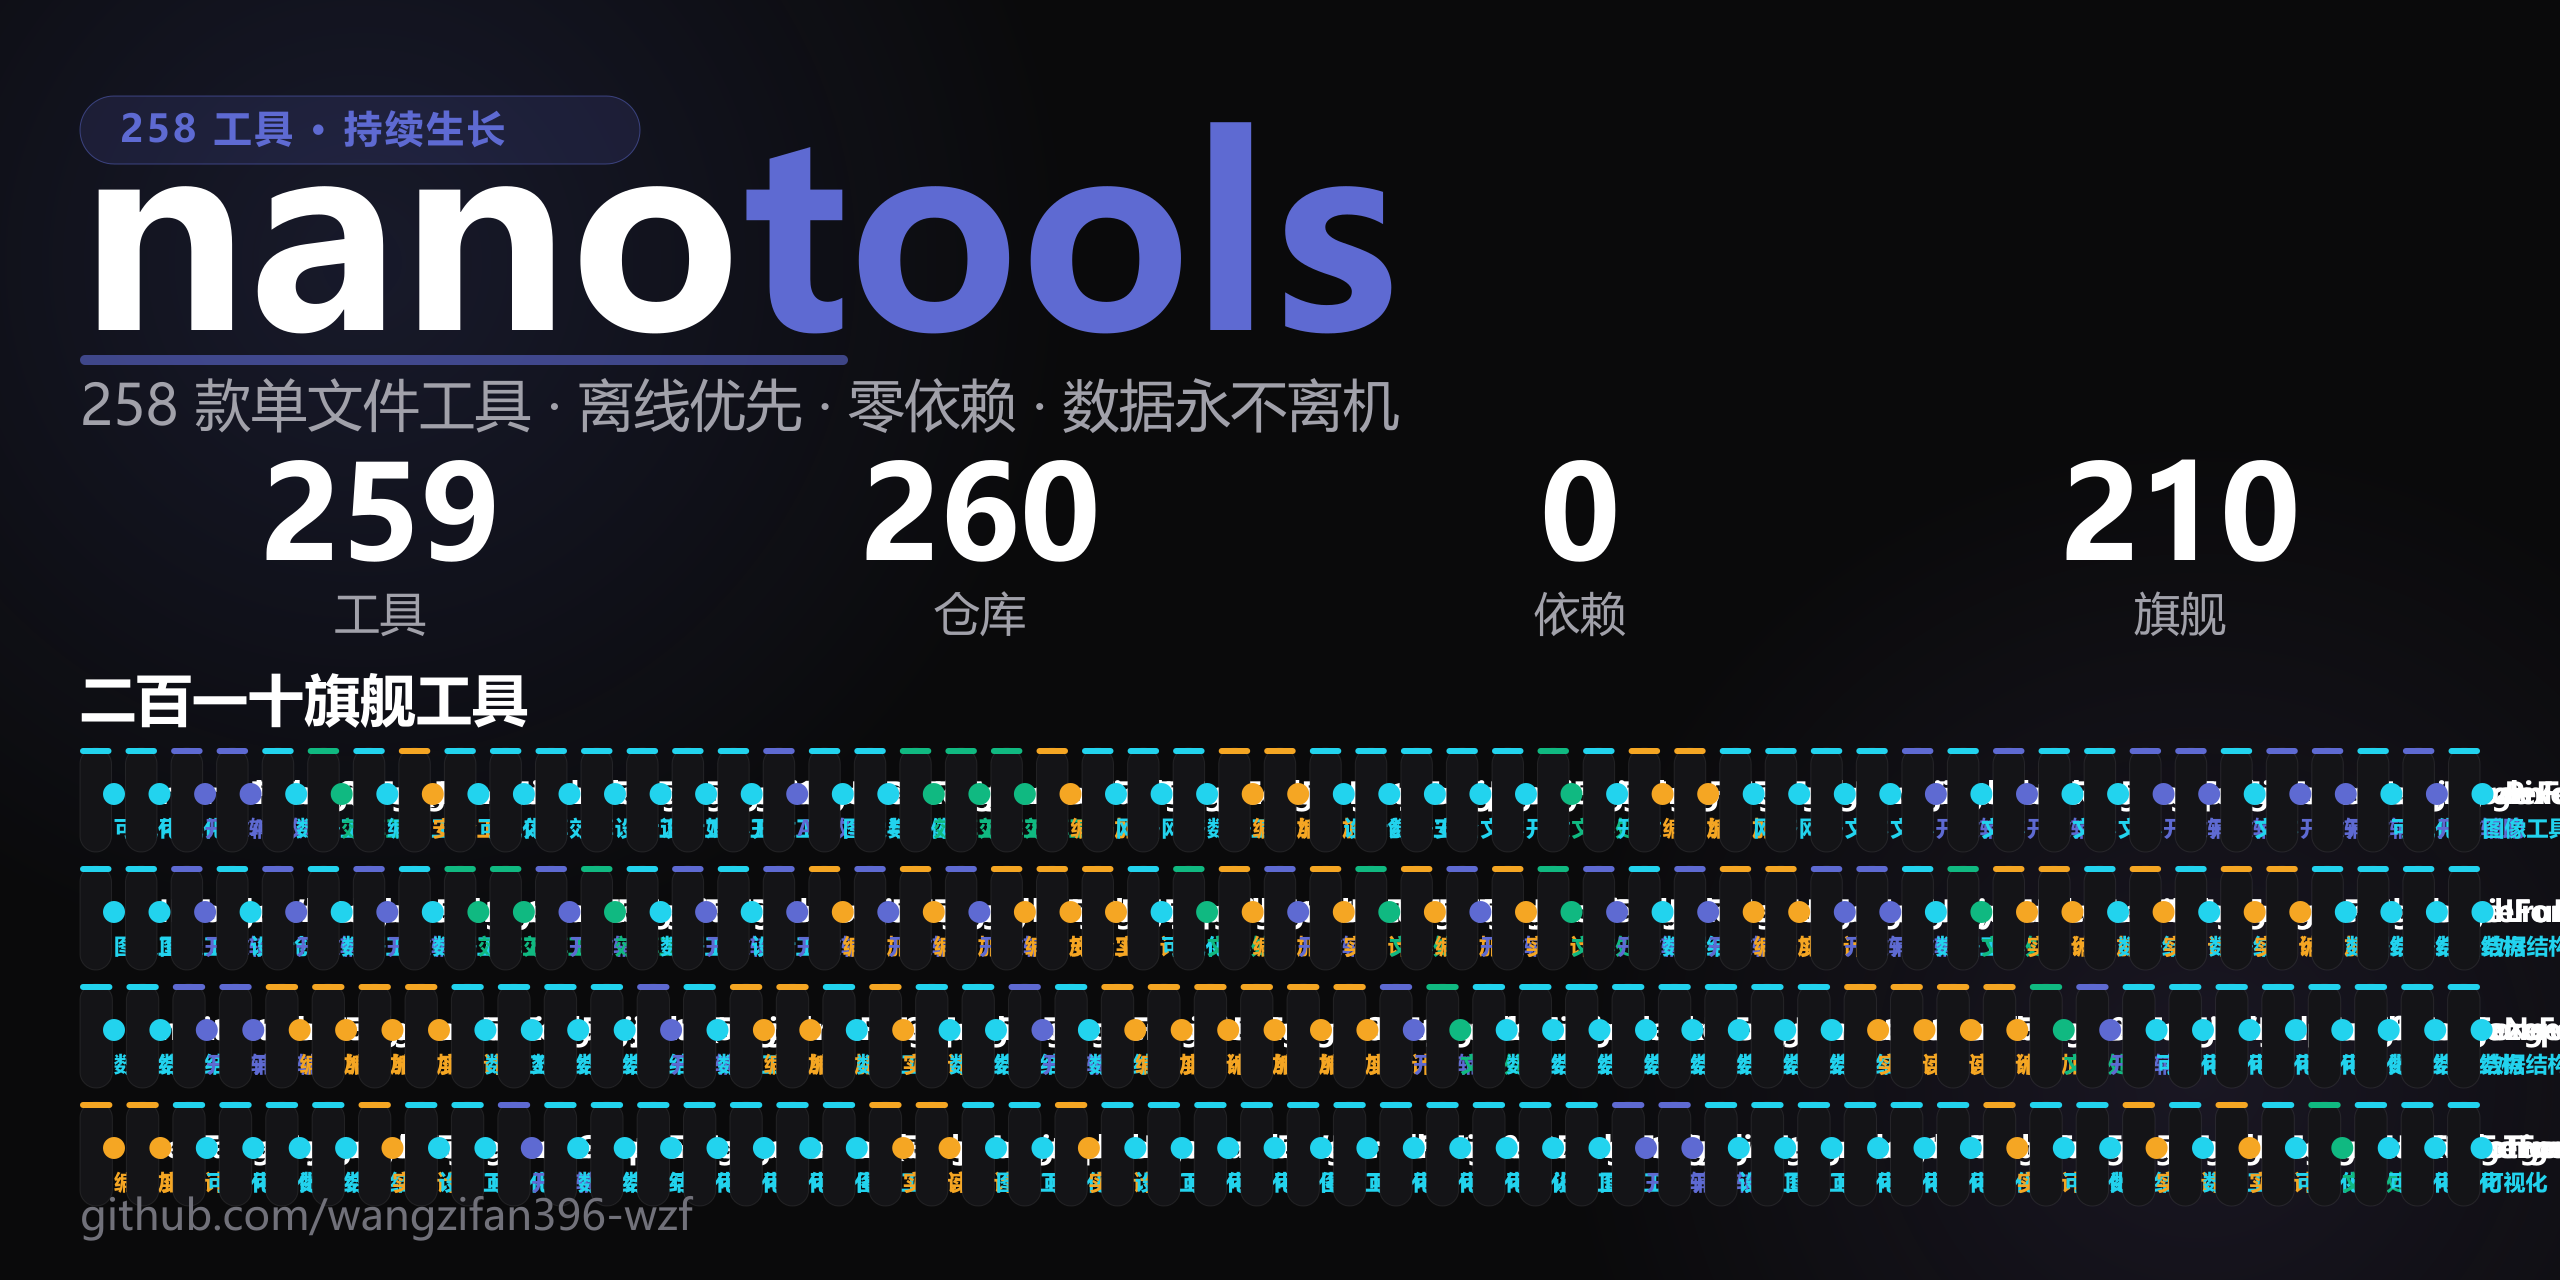
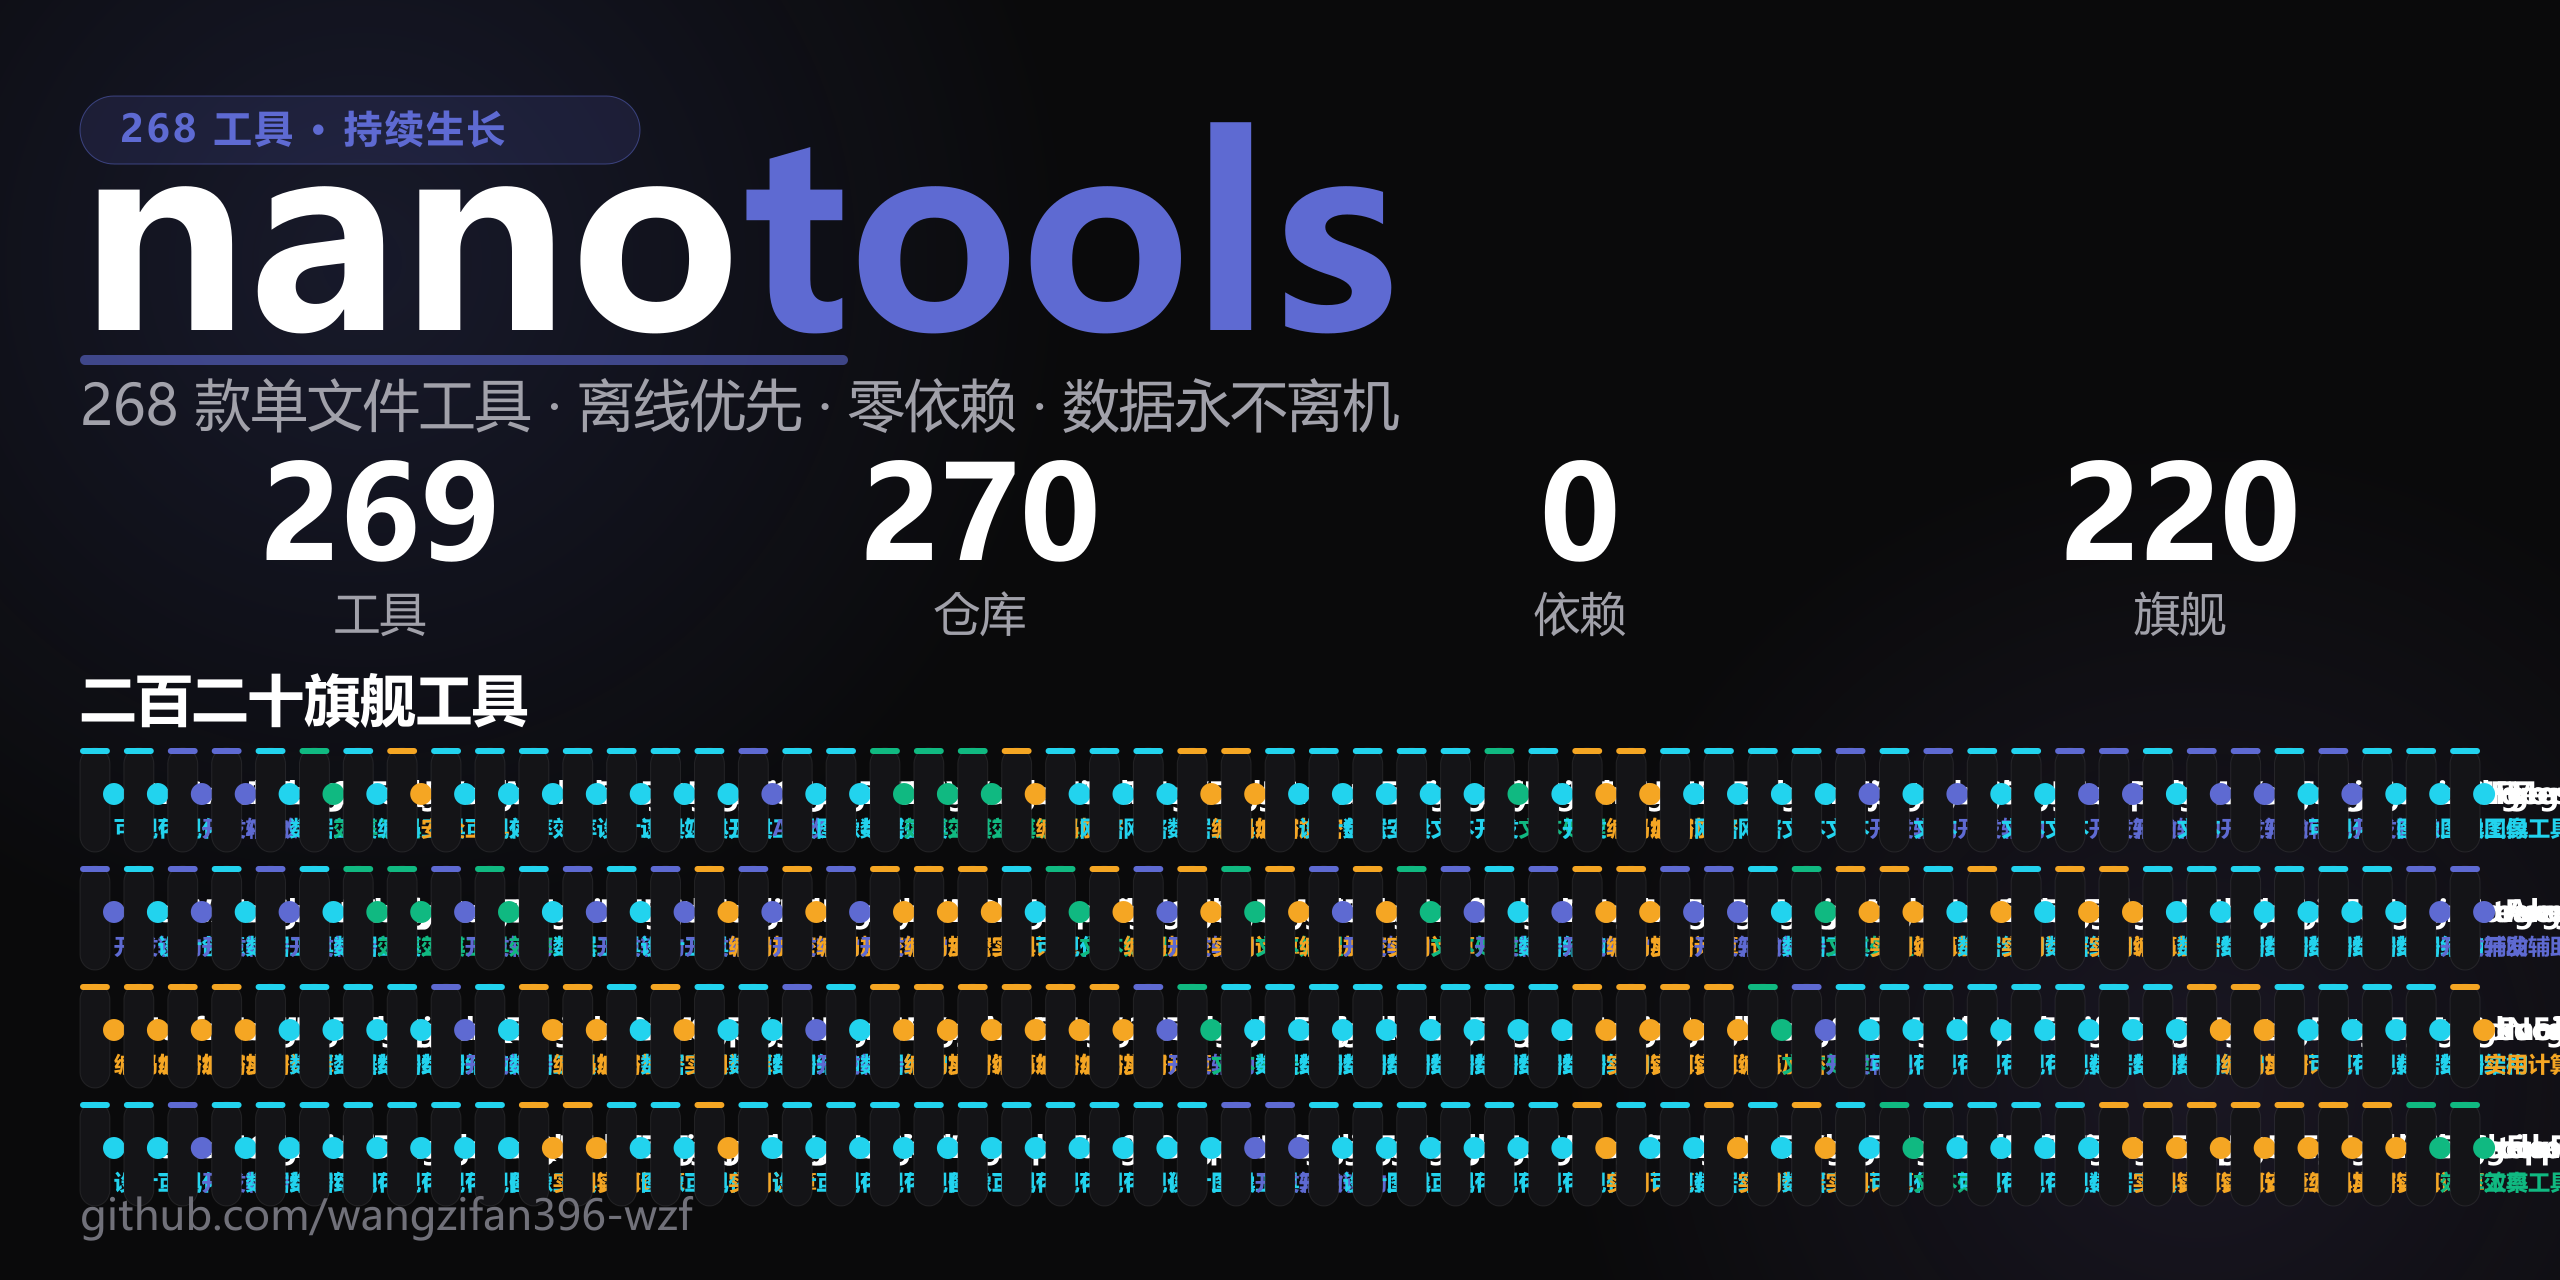
chore: batch39 wiring + promo (268 tools / 220 flagships)

diff --git a/README.md b/README.md
@@ -2,9 +2,9 @@
 
 <img src="./profile_header.png" alt="nano-tools 100 tools milestone" width="100%">
 
-### 258 款单文件工具 · 零依赖 · 本地优先
+### 268 款单文件工具 · 零依赖 · 本地优先
 
[2 lines of base64/hex data omitted]
 
 **每工具独立仓库 · 单文件 HTML · 双击即开 · 断网可用 · 你拥有全部源码**
 
@@ -16,13 +16,13 @@
 
 <img src="./all_tools_100.png" alt="全部 100 款工具墙" width="100%">
 
-<i>全部 258 款单文件工具 — 紫色 = 旗舰工具</i>
+<i>全部 268 款单文件工具 — 紫色 = 旗舰工具</i>
 
 </div>
 
 ---
 
-## 旗舰工具（210 款）
+## 旗舰工具（220 款）
 
 <table>
 <tr><th>工具</th><th>说明</th><th>试用</th></tr>
@@ -141,6 +141,16 @@
 <tr><td><b>WfcForge</b></td><td>波函数坍缩（WFC）地形生成器：海/滩/草/林/山邻接约束，最小熵坍缩 + 约束传播，种子可复现，SVG 网格渲染，离线可用。</td><td><a href="https://wangzifan396-wzf.github.io/WfcForge/">demo</a> / <a href="https://github.com/wangzifan396-wzf/WfcForge">src</a></td></tr>
 <tr><td><b>PlotForge</b></td><td>函数绘图器：输入 sin(x)*x 等表达式即渲染 SVG 曲线，递归下降解析器支持 + - * / ^ 与常用函数，多曲线叠加，离线可用。</td><td><a href="https://wangzifan396-wzf.github.io/PlotForge/">demo</a> / <a href="https://github.com/wangzifan396-wzf/PlotForge">src</a></td></tr>
 <tr><td><b>TimelineForge</b></td><td>时间线生成器：「日期 | 标题 | 描述」一行一事件，自动排序后渲染左右交替时间线 SVG，支持年月日三种粒度，离线可用。</td><td><a href="https://wangzifan396-wzf.github.io/TimelineForge/">demo</a> / <a href="https://github.com/wangzifan396-wzf/TimelineForge">src</a></td></tr>
+<tr><td><b>StatForge</b></td><td>统计与线性回归：均值/中位数/众数、方差/标准差、四分位与 IQR、线性拟合（斜率/截距/R²），一键出直方图，离线可用。</td><td><a href="https://wangzifan396-wzf.github.io/StatForge/">demo</a> / <a href="https://github.com/wangzifan396-wzf/StatForge">src</a></td></tr>
+<tr><td><b>LoanForge</b></td><td>贷款本息摊销：输入本金、年利率与期限，输出月供、总利息与逐期还款计划表，离线可用。</td><td><a href="https://wangzifan396-wzf.github.io/LoanForge/">demo</a> / <a href="https://github.com/wangzifan396-wzf/LoanForge">src</a></td></tr>
+<tr><td><b>SplitForge</b></td><td>聚餐 AA 分摊：逐条录入账单，自动加计小费/税费/折扣，按人数均摊出每人应付，离线可用。</td><td><a href="https://wangzifan396-wzf.github.io/SplitForge/">demo</a> / <a href="https://github.com/wangzifan396-wzf/SplitForge">src</a></td></tr>
+<tr><td><b>BmiForge</b></td><td>BMI 与健康区间：输入身高体重得 BMI 与中国成人标准分级，并给出健康体重范围与体脂率估算，离线可用。</td><td><a href="https://wangzifan396-wzf.github.io/BmiForge/">demo</a> / <a href="https://github.com/wangzifan396-wzf/BmiForge">src</a></td></tr>
+<tr><td><b>StrengthForge</b></td><td>密码强度估计：按字符集熵估算强度等级与暴力破解耗时，识别常见弱口令与模式，离线可用。</td><td><a href="https://wangzifan396-wzf.github.io/StrengthForge/">demo</a> / <a href="https://github.com/wangzifan396-wzf/StrengthForge">src</a></td></tr>
+<tr><td><b>HashIdForge</b></td><td>哈希类型识别：根据长度、字符集与特征前缀判断 md5/sha 系列/bcrypt/argon2/ntlm 等，离线可用。</td><td><a href="https://wangzifan396-wzf.github.io/HashIdForge/">demo</a> / <a href="https://github.com/wangzifan396-wzf/HashIdForge">src</a></td></tr>
+<tr><td><b>WorldClockForge</b></td><td>世界时钟：并排显示多个时区当前时间，自动算时差，基于 Intl 离线可用。</td><td><a href="https://wangzifan396-wzf.github.io/WorldClockForge/">demo</a> / <a href="https://github.com/wangzifan396-wzf/WorldClockForge">src</a></td></tr>
+<tr><td><b>CountdownForge</b></td><td>多倒计时：添加多个目标时刻，实时显示剩余天/时/分/秒，本地保存，离线可用。</td><td><a href="https://wangzifan396-wzf.github.io/CountdownForge/">demo</a> / <a href="https://github.com/wangzifan396-wzf/CountdownForge">src</a></td></tr>
+<tr><td><b>RecipeForge</b></td><td>食谱管理：录入配料一键按份量缩放，本地保存多个食谱，离线可用。</td><td><a href="https://wangzifan396-wzf.github.io/RecipeForge/">demo</a> / <a href="https://github.com/wangzifan396-wzf/RecipeForge">src</a></td></tr>
+<tr><td><b>ExpenseForge</b></td><td>记账与预算：录入收支、按分类与月份汇总，本地保存，离线可用。</td><td><a href="https://wangzifan396-wzf.github.io/ExpenseForge/">demo</a> / <a href="https://github.com/wangzifan396-wzf/ExpenseForge">src</a></td></tr>
 <tr><td><b>MetronomeForge</b></td><td>节拍器：可调 BPM 与拍号，支持重音与前瞻调度内核，Tap 测速，辅助练习节奏，离线可用。</td><td><a href="https://wangzifan396-wzf.github.io/MetronomeForge/">demo</a> / <a href="https://github.com/wangzifan396-wzf/MetronomeForge">src</a></td></tr>
 <tr><td><b>PaletteForge</b></td><td>配色生成器：色相旋转派生互补/三角/邻近/单色方案，WCAG 对比度校验，点选即复制，离线可用。</td><td><a href="https://wangzifan396-wzf.github.io/PaletteForge/">demo</a> / <a href="https://github.com/wangzifan396-wzf/PaletteForge">src</a></td></tr>
 <tr><td><b>ChordForge</b></td><td>和弦与音阶：和弦识别、音阶构建、音名解析与异名同音归一。</td><td><a href="https://wangzifan396-wzf.github.io/ChordForge/">demo</a> / <a href="https://github.com/wangzifan396-wzf/ChordForge">src</a></td></tr>
@@ -240,7 +250,7 @@
 
 ---
 
-## 全部工具按分类（258 款）
+## 全部工具按分类（268 款）
 
 ### 📝 文本处理
 
@@ -377,6 +387,11 @@
 | **KnapsackForge** | 0/1 背包：动态规划最优选择，贪心对照，回溯选取物品。 | ⭐ |
 | **DocxForge** | 纯前端 Word 生成器：粘贴文本即可打包为标准 .docx（最小 OOXML + 无压缩 ZIP，自实现 CRC32），支持标题行，零依赖离线可用。 | ⭐ |
 | **PomodoroForge** | 番茄钟：纯函数状态机驱动（工作/短休/长休自动轮转，每 4 个番茄进长休），完成统计与进度环，离线可用。 | ⭐ |
+| **LoanForge** | 贷款本息摊销：输入本金、年利率与期限，输出月供、总利息与逐期还款计划表，离线可用。 | ⭐ |
+| **SplitForge** | 聚餐 AA 分摊：逐条录入账单，自动加计小费/税费/折扣，按人数均摊出每人应付，离线可用。 | ⭐ |
+| **BmiForge** | BMI 与健康区间：输入身高体重得 BMI 与中国成人标准分级，并给出健康体重范围与体脂率估算，离线可用。 | ⭐ |
+| **WorldClockForge** | 世界时钟：并排显示多个时区当前时间，自动算时差，基于 Intl 离线可用。 | ⭐ |
+| **CountdownForge** | 多倒计时：添加多个目标时刻，实时显示剩余天/时/分/秒，本地保存，离线可用。 | ⭐ |
 | **MetronomeForge** | 节拍器：可调 BPM 与拍号，支持重音与前瞻调度内核，Tap 测速，辅助练习节奏，离线可用。 | ⭐ |
 | **ChordForge** | 和弦与音阶：和弦识别、音阶构建、音名解析与异名同音归一。 | ⭐ |
 | **FractalForge** | 分形生成：Mandelbrot 点阵 / Koch 曲线 / Sierpinski 三角。 | ⭐ |
@@ -436,6 +451,7 @@
 | **XxhashForge** | xxHash32 快速哈希：官方向量验证，种子可调，非加密校验。 | ⭐ |
 | **Base85Forge** | Ascii85 + Z85 编解码：z 压缩、尾组截断、RFC 向量校验。 | ⭐ |
 | **StegForge** | 零宽隐写：把秘密消息藏进不可见字符，检测/提取/防篡改。 | ⭐ |
+| **HashIdForge** | 哈希类型识别：根据长度、字符集与特征前缀判断 md5/sha 系列/bcrypt/argon2/ntlm 等，离线可用。 | ⭐ |
 | **MurmurForge** | MurmurHash3 x86_32 哈希：UTF-8 输入、自定义种子、分桶路由。 | ⭐ |
 | **Base32Forge** | Base32 编解码：RFC4648 / Base32Hex / Crockford / z-base-32 四变体。 | ⭐ |
 | **VarintForge** | protobuf varint + ZigZag 变长整数编解码，hex 字节流互转。 | ⭐ |
@@ -457,6 +473,7 @@
 | 工具 | 说明 | 旗舰 |
 |---|---|:---:|
 | **PasswordForge** | 安全口令生成器：可配字符集、避开易混字符（Il1O0o）、每类至少含一个，实时熵估计。 | ⭐ |
+| **StrengthForge** | 密码强度估计：按字符集熵估算强度等级与暴力破解耗时，识别常见弱口令与模式，离线可用。 | ⭐ |
 | **VaultForge** | 本地优先的零知识加密密码库：AES-GCM + PBKDF2，登录/卡片/笔记/身份全加密，数据永不出端。 | ⭐ |
 
 ### 🎷 数据结构
@@ -502,6 +519,7 @@
 | **PivotForge** | 交叉表透视器：CSV 明细转行列交叉表，sum/count/avg/min/max + 总计。 | ⭐ |
 | **MsgpackForge** | MessagePack 编解码：JSON 值到二进制紧凑序列化与十六进制视图。 | ⭐ |
 | **XlsxForge** | 纯前端 Excel 生成器：粘贴 CSV 即打包为标准 .xlsx（inline string + 数字类型自动识别，自实现 STORED ZIP），零依赖离线可用。 | ⭐ |
+| **StatForge** | 统计与线性回归：均值/中位数/众数、方差/标准差、四分位与 IQR、线性拟合（斜率/截距/R²），一键出直方图，离线可用。 | ⭐ |
 | **TomlForge** | TOML 解析器：字符串/数值/数组/表/数组表，零依赖解析。 | ⭐ |
 | **IniForge** | INI 配置解析：section/键值/注释，与序列化互逆。 | ⭐ |
 | **SQLForge** | 离线 SQL 数据库客户端：基于 SQLite(WASM) 运行真实 SQL，导入 CSV/JSON 建表，结果导出 CSV/JSON，零依赖、数据永不离机。 | ⭐ |
@@ -512,6 +530,22 @@
 | **ChartForge** | 离线数据图表生成器：粘贴 CSV / JSON / TSV，生成柱状 / 折线 / 饼 / 环形 / 散点 / 面积图，Canvas 渲染并导出 PNG 与 SVG。 | ⭐ |
 | **SheetForge** | 离线迷你电子表格：A1 引用、区域、SUM / AVG / IF / ROUND 等公式引擎，依赖图重算与环检测，CSV 导入导出，零依赖。 | ⭐ |
 | **JsonPathForge** | 离线 JSONPath 查询器：自研解析器支持 $ . .. [*] [n] [切片] [?(@.x op v)] 过滤与正则匹配，实时高亮命中、输出规范化路径。 | ⭐ |
+
+### ⚡ 效率工具
+
+| 工具 | 说明 | 旗舰 |
+|---|---|:---:|
+| **RecipeForge** | 食谱管理：录入配料一键按份量缩放，本地保存多个食谱，离线可用。 | ⭐ |
+| **ExpenseForge** | 记账与预算：录入收支、按分类与月份汇总，本地保存，离线可用。 | ⭐ |
+| **FormForge** | 本地优先离线表单构建器：拖拽式字段、实时预览，一键导出独立 HTML 或 JSON Schema。 |  |
+| **FocusForge** | 本地优先的专注与计时工具箱：番茄钟、倒计时、秒表、世界时钟，数据留在浏览器。 |  |
+| **DeckForge** | Markdown 一键变幻灯片：实时预览、键盘翻页、全屏演示、打印导出 PDF。离线、零依赖。 | ⭐ |
+| **CVForge** | 离线简历 / CV 工作台：结构化表单 + 实时预览，三种模板，一键打印导出 PDF，JSON 导入导出，数据留本地。 | ⭐ |
+| **KanbanForge** | 离线看板：多列拖拽卡片，优先级 / 标签 / 搜索筛选，导出 Markdown / JSON，数据永不离机。 | ⭐ |
+| **InvoiceForge** | 离线发票 / 报价单生成器：行项目自动计税、人民币大写金额、A4 实时预览、一键打印导出 PDF。 | ⭐ |
+| **TypingForge** | 离线打字速度测试：WPM / CPM / 准确率 / 稳定性，逐字符实时高亮，15/30/60 秒模式，可复现词表与本地最佳记录。 | ⭐ |
+| **DateForge** | 离线日期计算器：日期间隔（年月日精确拆分）、加减推算、ISO 周 / 年积日 / 工作日、年龄与下次生日，纯整数序列算法无时区陷阱。 | ⭐ |
+| **HabitForge** | 离线习惯追踪器：每日打卡、当前 / 最长连击、近 30 天完成率、半年热力图，数据只存本地，支持 JSON 导入导出。 | ⭐ |
 
 ### 🎷 AI 效率
 
@@ -525,20 +559,6 @@
 | 工具 | 说明 | 旗舰 |
 |---|---|:---:|
 | **FlowForge** | 本地优先离线看板：多看板、拖拽排序、标签/优先级/截止、清单子任务，数据留在浏览器。 |  |
-
-### ⚡ 效率工具
-
-| 工具 | 说明 | 旗舰 |
-|---|---|:---:|
-| **FormForge** | 本地优先离线表单构建器：拖拽式字段、实时预览，一键导出独立 HTML 或 JSON Schema。 |  |
-| **FocusForge** | 本地优先的专注与计时工具箱：番茄钟、倒计时、秒表、世界时钟，数据留在浏览器。 |  |
-| **DeckForge** | Markdown 一键变幻灯片：实时预览、键盘翻页、全屏演示、打印导出 PDF。离线、零依赖。 | ⭐ |
-| **CVForge** | 离线简历 / CV 工作台：结构化表单 + 实时预览，三种模板，一键打印导出 PDF，JSON 导入导出，数据留本地。 | ⭐ |
-| **KanbanForge** | 离线看板：多列拖拽卡片，优先级 / 标签 / 搜索筛选，导出 Markdown / JSON，数据永不离机。 | ⭐ |
-| **InvoiceForge** | 离线发票 / 报价单生成器：行项目自动计税、人民币大写金额、A4 实时预览、一键打印导出 PDF。 | ⭐ |
-| **TypingForge** | 离线打字速度测试：WPM / CPM / 准确率 / 稳定性，逐字符实时高亮，15/30/60 秒模式，可复现词表与本地最佳记录。 | ⭐ |
-| **DateForge** | 离线日期计算器：日期间隔（年月日精确拆分）、加减推算、ISO 周 / 年积日 / 工作日、年龄与下次生日，纯整数序列算法无时区陷阱。 | ⭐ |
-| **HabitForge** | 离线习惯追踪器：每日打卡、当前 / 最长连击、近 30 天完成率、半年热力图，数据只存本地，支持 JSON 导入导出。 | ⭐ |
 
 ### 🛠 聚合器
 
